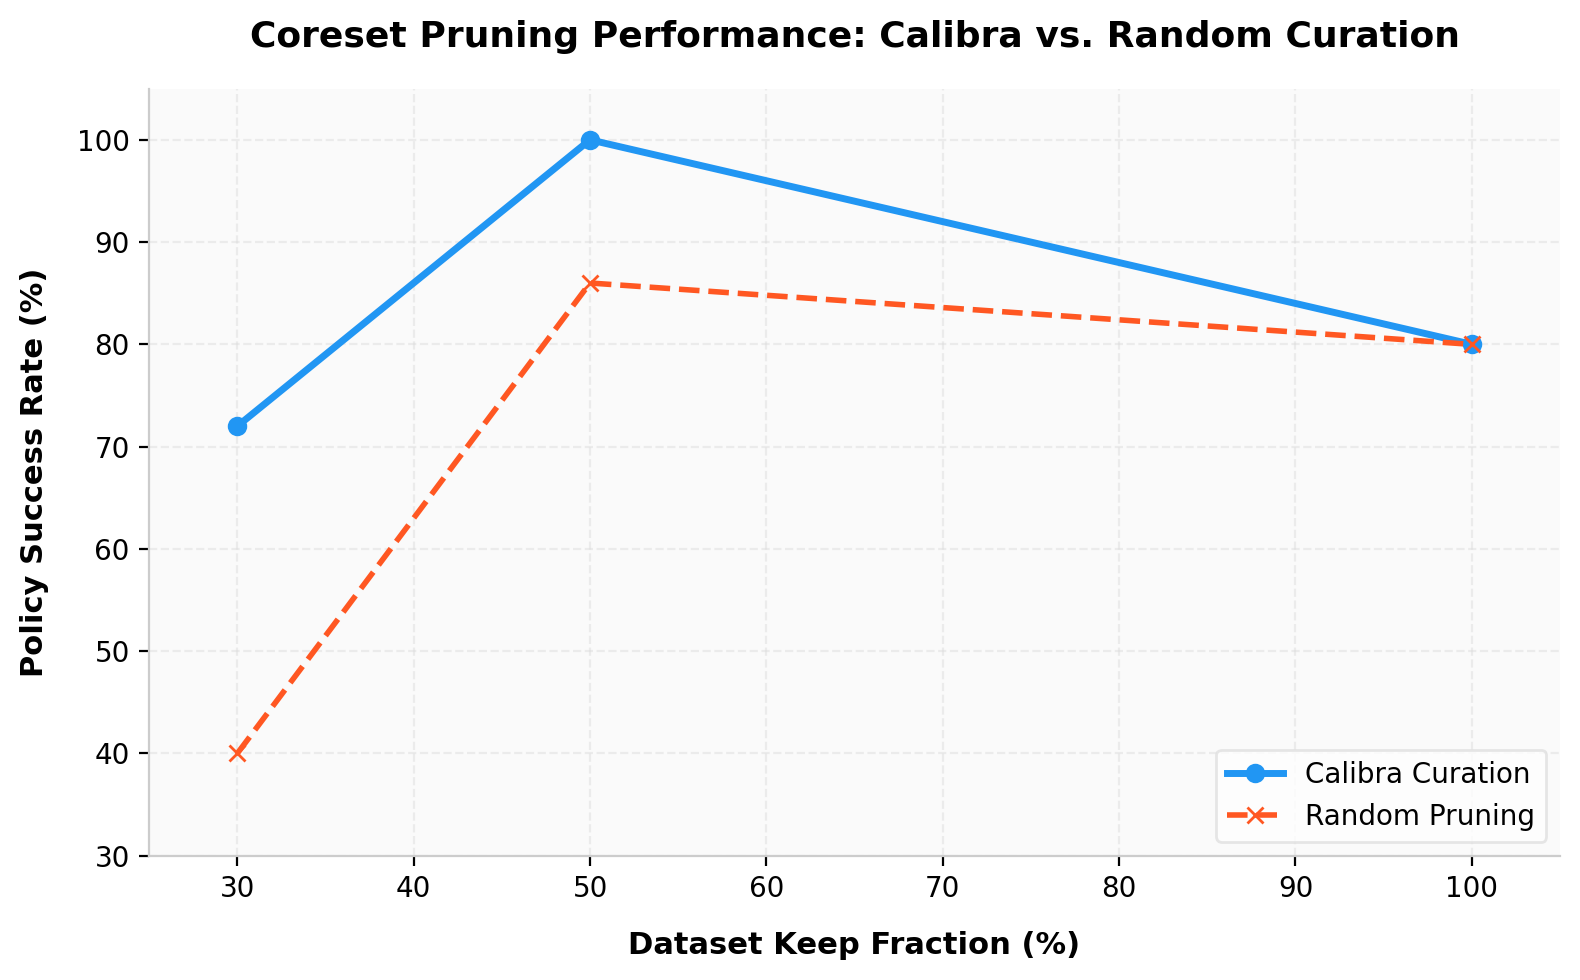
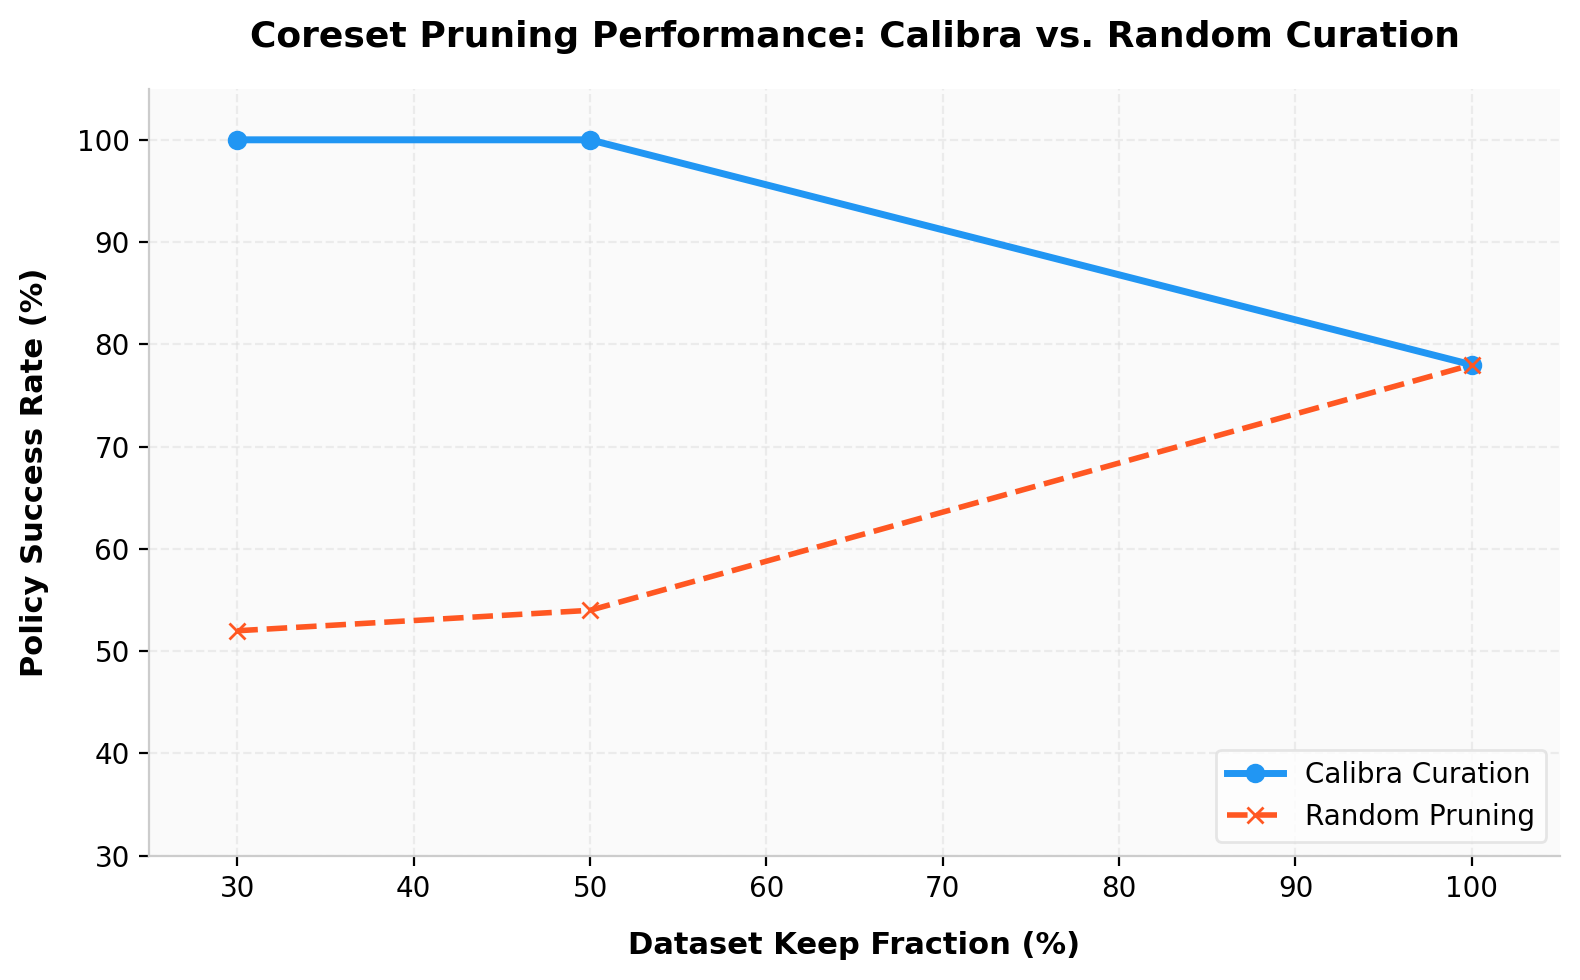
feat: GPU-accelerated coreset selection and DINOv2/SigLIP visual embeddings

diff --git a/calibra/curation/latent_embed.py b/calibra/curation/latent_embed.py
@@ -15,6 +15,8 @@ def extract_latent_embeddings(batch: EpisodeBatch, model_type: str = "proprio") 
       - 'visual': lightweight spatial statistics (pixel mean/std/PCA) of camera observations.
       - 'resnet': extracts ResNet features using PyTorch (if torch/torchvision is installed).
       - 'clip' / 'vlm': extracts CLIP/VLM visual semantic features using PyTorch and Hugging Face Transformers.
+      - 'dinov2': extracts Dinov2 visual features using PyTorch and Hugging Face Transformers.
+      - 'siglip': extracts SigLIP visual features using PyTorch and Hugging Face Transformers.
     """
     embeddings = {}
     
@@ -58,7 +60,7 @@ def extract_latent_embeddings(batch: EpisodeBatch, model_type: str = "proprio") 
                     normalize = transforms.Normalize(
                         mean=[0.485, 0.456, 0.406],
                         std=[0.229, 0.224, 0.225]
-                    )
+                     )
                     tensor = normalize(tensor)
                     
                     # Disable torchvision download logging
@@ -111,6 +113,74 @@ def extract_latent_embeddings(batch: EpisodeBatch, model_type: str = "proprio") 
                     emb = np.zeros(1024, dtype=np.float32)
             except Exception:
                 # Fallback to resnet if transformers fails, then visual
+                try:
+                    emb = extract_latent_embeddings(EpisodeBatch(episodes=[ep], dataset_name="fallback"), model_type="resnet")[ep.metadata.episode_id]
+                except Exception:
+                    emb = extract_latent_embeddings(EpisodeBatch(episodes=[ep], dataset_name="fallback"), model_type="visual")[ep.metadata.episode_id]
+                    
+        elif model_type == "dinov2":
+            try:
+                import torch
+                from PIL import Image
+                from transformers import AutoImageProcessor, AutoModel
+                
+                cam = obs.get("camera_rgb")
+                if cam is not None and cam.size > 0:
+                    device = "cuda" if torch.cuda.is_available() else ("mps" if torch.backends.mps.is_available() else "cpu")
+                    model = AutoModel.from_pretrained("facebook/dinov2-base").to(device)
+                    processor = AutoImageProcessor.from_pretrained("facebook/dinov2-base")
+                    
+                    indices = np.linspace(0, len(cam) - 1, min(10, len(cam)), dtype=int)
+                    sampled_frames = [Image.fromarray(cam[i].astype(np.uint8)) for i in indices]
+                    
+                    inputs = processor(images=sampled_frames, return_tensors="pt").to(device)
+                    with torch.no_grad():
+                        outputs = model(**inputs)
+                        # DINOv2 returns last_hidden_state (batch, seq_len, dim); take the CLS token
+                        image_features = outputs.last_hidden_state[:, 0, :]
+                        image_features = image_features / image_features.norm(dim=-1, keepdim=True)
+                        mean_features = torch.mean(image_features, dim=0).cpu().numpy()
+                        std_features = torch.std(image_features, dim=0).cpu().numpy()
+                        emb = np.concatenate([mean_features, std_features])
+                else:
+                    emb = np.zeros(1536, dtype=np.float32)
+            except Exception:
+                try:
+                    emb = extract_latent_embeddings(EpisodeBatch(episodes=[ep], dataset_name="fallback"), model_type="resnet")[ep.metadata.episode_id]
+                except Exception:
+                    emb = extract_latent_embeddings(EpisodeBatch(episodes=[ep], dataset_name="fallback"), model_type="visual")[ep.metadata.episode_id]
+                    
+        elif model_type == "siglip":
+            try:
+                import torch
+                from PIL import Image
+                from transformers import AutoImageProcessor, AutoModel
+                
+                cam = obs.get("camera_rgb")
+                if cam is not None and cam.size > 0:
+                    device = "cuda" if torch.cuda.is_available() else ("mps" if torch.backends.mps.is_available() else "cpu")
+                    model = AutoModel.from_pretrained("google/siglip-base-patch16-224").to(device)
+                    processor = AutoImageProcessor.from_pretrained("google/siglip-base-patch16-224")
+                    
+                    indices = np.linspace(0, len(cam) - 1, min(10, len(cam)), dtype=int)
+                    sampled_frames = [Image.fromarray(cam[i].astype(np.uint8)) for i in indices]
+                    
+                    inputs = processor(images=sampled_frames, return_tensors="pt").to(device)
+                    with torch.no_grad():
+                        outputs = model(**inputs)
+                        # SiglipModel is a vision-language model, or we can use get_image_features if it exists
+                        if hasattr(model, "get_image_features"):
+                            image_features = model.get_image_features(**inputs)
+                        else:
+                            # fallback: if AutoModel returns vision output structure directly
+                            image_features = outputs.pooler_output
+                        image_features = image_features / image_features.norm(dim=-1, keepdim=True)
+                        mean_features = torch.mean(image_features, dim=0).cpu().numpy()
+                        std_features = torch.std(image_features, dim=0).cpu().numpy()
+                        emb = np.concatenate([mean_features, std_features])
+                else:
+                    emb = np.zeros(1536, dtype=np.float32)
+            except Exception:
                 try:
                     emb = extract_latent_embeddings(EpisodeBatch(episodes=[ep], dataset_name="fallback"), model_type="resnet")[ep.metadata.episode_id]
                 except Exception:

diff --git a/calibra/pruning.py b/calibra/pruning.py
@@ -552,11 +552,36 @@ def _greedy_max_coverage(features: np.ndarray, k: int) -> list[int]:
     Time: O(N × K)  — suitable for N up to ~50k, K up to ~5k.
     For larger datasets, consider approximate methods (random projection + greedy).
 
-    Seed: the episode farthest from the empirical centroid of the candidate set.
+    Attempts PyTorch GPU acceleration if torch and a GPU (CUDA/MPS) are available.
+    Falls back to NumPy.
     """
     n = len(features)
     if k >= n:
         return list(range(n))
+
+    try:
+        import torch
+        device = "cuda" if torch.cuda.is_available() else ("mps" if torch.backends.mps.is_available() else "cpu")
+        if device in ("cuda", "mps"):
+            feats_t = torch.tensor(features, dtype=torch.float32, device=device)
+            centroid = feats_t.mean(dim=0)
+            dists_to_centroid = torch.linalg.norm(feats_t - centroid, dim=1)
+            seed = int(torch.argmax(dists_to_centroid).item())
+
+            selected = [seed]
+            min_dists = torch.linalg.norm(feats_t - feats_t[seed], dim=1).clone()
+            min_dists[seed] = -float("inf")
+
+            for _ in range(k - 1):
+                next_idx = int(torch.argmax(min_dists).item())
+                selected.append(next_idx)
+                dists_to_new = torch.linalg.norm(feats_t - feats_t[next_idx], dim=1)
+                min_dists = torch.minimum(min_dists, dists_to_new)
+                min_dists[next_idx] = -float("inf")
+
+            return selected
+    except Exception:
+        pass
 
     centroid = features.mean(axis=0)
     dists_to_centroid = np.linalg.norm(features - centroid, axis=1)

diff --git a/tests/test_cure_and_pai.py b/tests/test_cure_and_pai.py
@@ -102,6 +102,26 @@ def test_latent_embeddings_clip_fallback():
     assert embs[ep.metadata.episode_id].ndim == 1
 
 
+def test_latent_embeddings_dinov2_fallback():
+    ep = _make_mock_episode()
+    batch = EpisodeBatch(episodes=[ep], dataset_name="test", format="hdf5", source_path="/tmp/test.h5")
+    
+    # Should run dinov2 type and gracefully fall back if transformers is not present
+    embs = extract_latent_embeddings(batch, model_type="dinov2")
+    assert ep.metadata.episode_id in embs
+    assert embs[ep.metadata.episode_id].ndim == 1
+
+
+def test_latent_embeddings_siglip_fallback():
+    ep = _make_mock_episode()
+    batch = EpisodeBatch(episodes=[ep], dataset_name="test", format="hdf5", source_path="/tmp/test.h5")
+    
+    # Should run siglip type and gracefully fall back if transformers is not present
+    embs = extract_latent_embeddings(batch, model_type="siglip")
+    assert ep.metadata.episode_id in embs
+    assert embs[ep.metadata.episode_id].ndim == 1
+
+
 def test_cure_cli_manifest(tmp_path):
     h5py = pytest.importorskip("h5py")
     ep = _make_mock_episode()

diff --git a/experiments/figures/table2_prune_performance.tex b/experiments/figures/table2_prune_performance.tex
@@ -5,10 +5,10 @@
 \begin{tabular}{lccccc}
 \hline
 \textbf{Condition} & \textbf{Keep \%} & \textbf{Episodes} & \textbf{Success \%} & \textbf{Training Time (s)} & \textbf{Compute Saving} \\ \hline
-Full Dataset & 100\% & 100 & 80.0\% & 4.133 & Base \\ \hline
-Calibra Coreset & 50\% & 50 & 100.0\% & 2.068 & 50.0\% \\
-Random Curation & 50\% & 50 & 86.0\% & 2.027 & 51.0\% \\ \hline
-Calibra Coreset & 30\% & 30 & 72.0\% & 1.209 & 70.7\% \\
-Random Curation & 30\% & 30 & 40.0\% & 1.229 & 70.3\% \\ \hline
+Full Dataset & 100\% & 100 & 78.0\% & 4.430 & Base \\ \hline
+Calibra Coreset & 50\% & 50 & 100.0\% & 2.120 & 52.2\% \\
+Random Curation & 50\% & 50 & 54.0\% & 2.316 & 47.7\% \\ \hline
+Calibra Coreset & 30\% & 30 & 100.0\% & 1.455 & 67.1\% \\
+Random Curation & 30\% & 30 & 52.0\% & 1.275 & 71.2\% \\ \hline
 \end{tabular}
 \end{table}